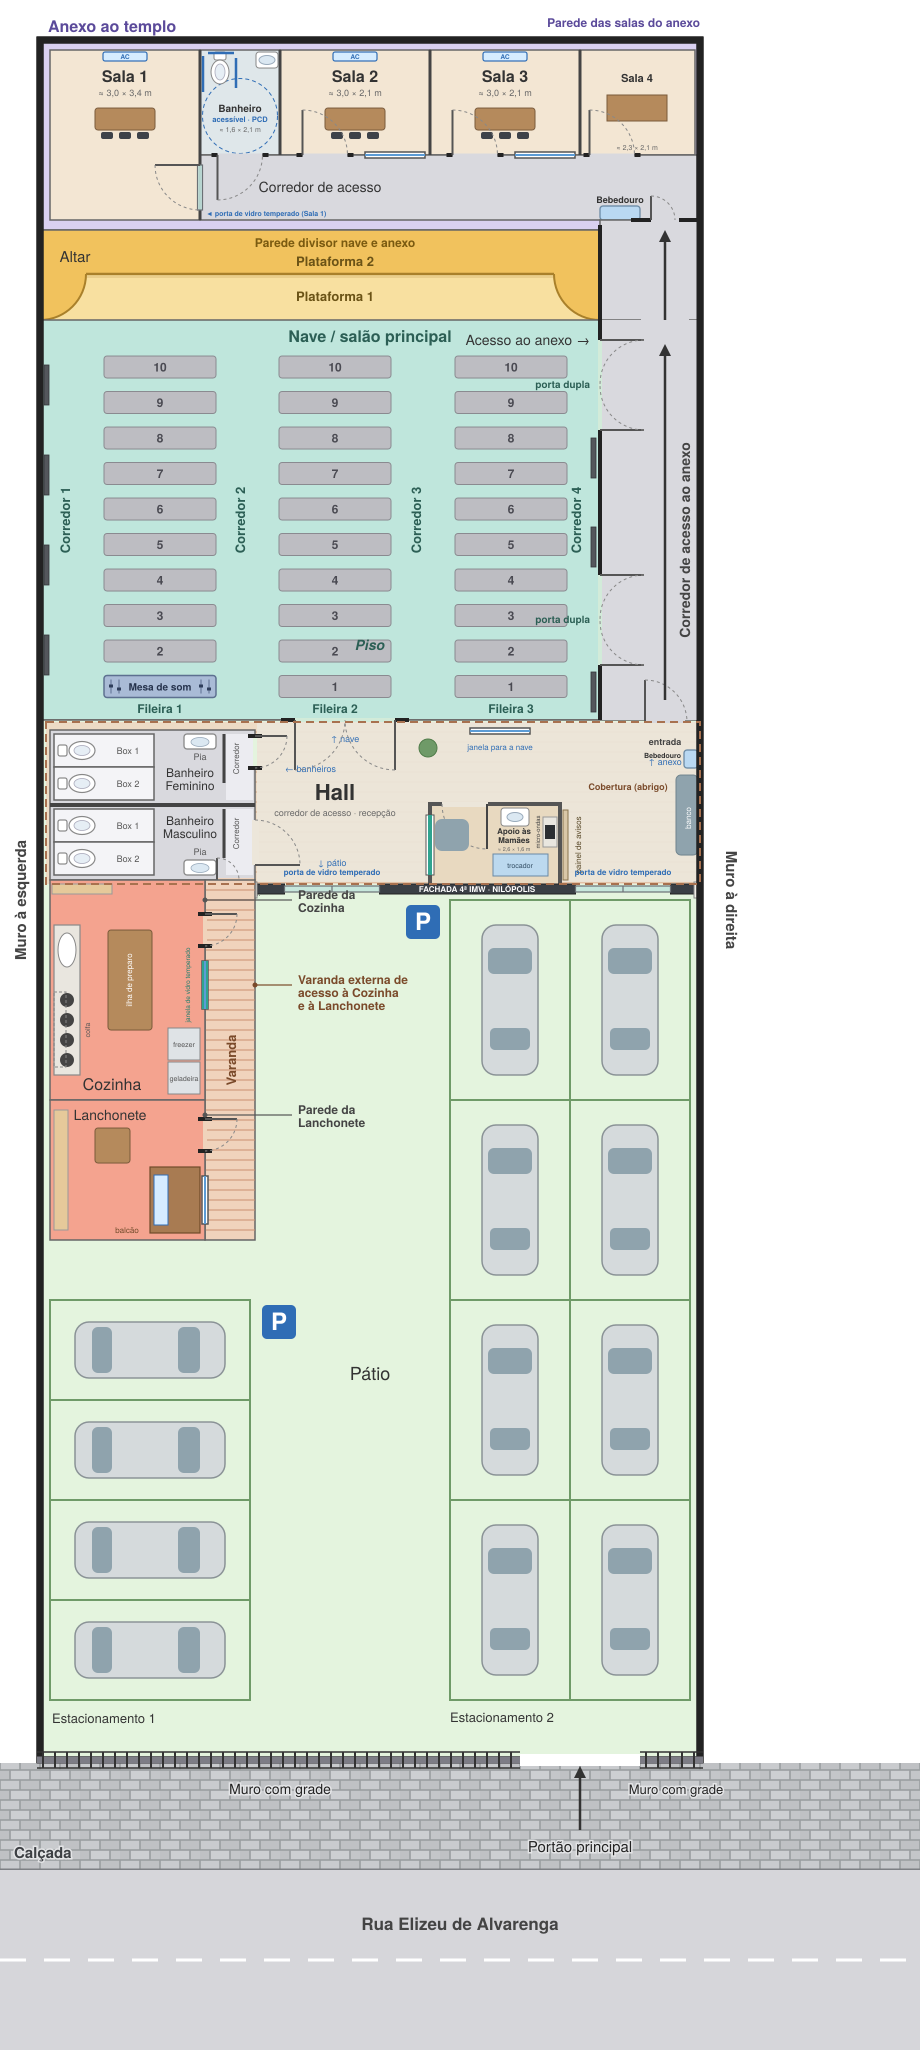
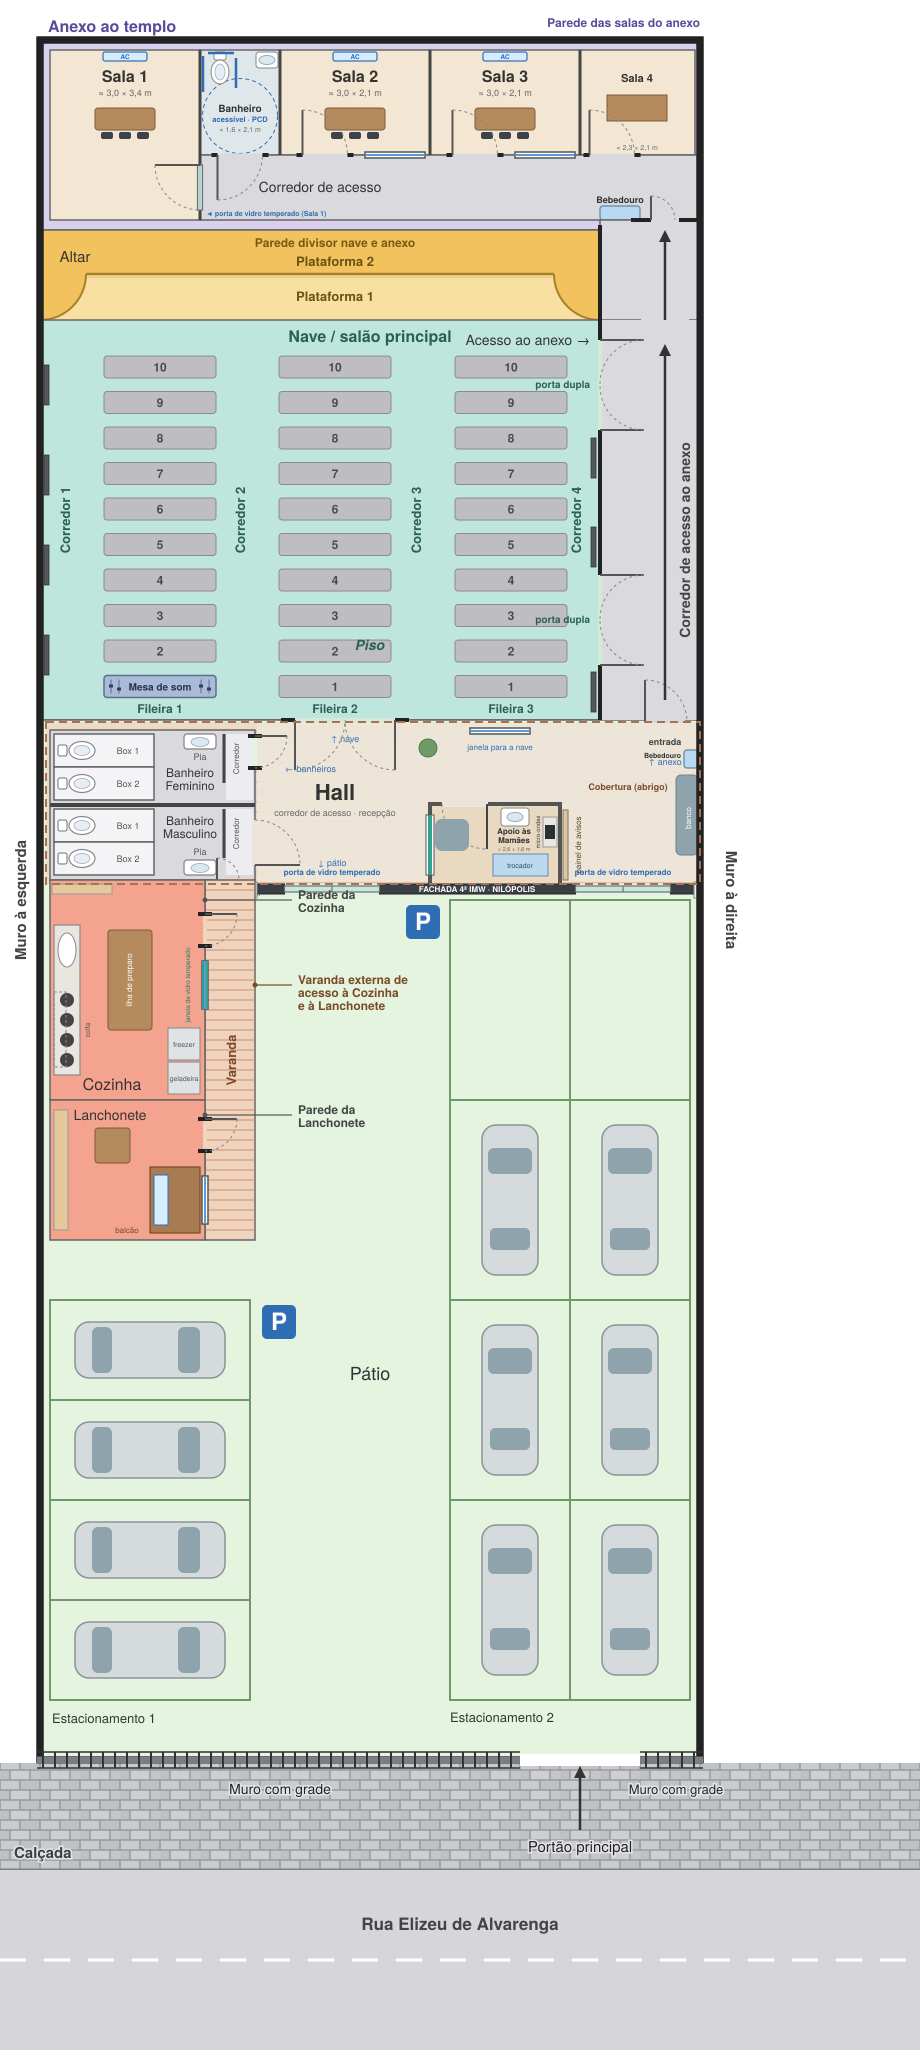
Maquete 3 etapa 39: retirar os 2 carros proximos a porta da fachada
Claude-Session: https://claude.ai/code/session_015gh4tS64wXyJ2ghbw66cFX

Changed region(s): [[0.6391, 0.4329, 0.7304, 0.5256], [0.5174, 0.4329, 0.6087, 0.5256]]

diff --git a/index.html b/index.html
@@ -114,7 +114,7 @@
   <div class="panel" id="projeto3">
     <section>
       <h2>Maquete 3 — Visão 3D</h2>
-      <p class="sub">Parte da Maquete 2 (a mais bem aceita na reunião) com as mudanças propostas. Mudanças até agora: o pátio tem somente 2 ambientes, Cozinha (maior) e Lanchonete (Cantina), ambos em tamanho reduzido; com isso o Estacionamento 1 passou de 2 para 4 vagas; a fachada ganhou uma 2ª porta de vidro temperado, no extremo oposto à existente; o corredor de acesso ao anexo ficou mais largo (2,0 m), com o altar encurtado; a Sala 1 do anexo foi esticada até a parede da nave e ganhou porta de vidro temperado para o corredor; a Sala de Apoio às Mamães foi para o Hall, reduzida e em horizontal (poltrona, trocador, pia e micro-ondas), com janela de vidro temperado (a Cozinha também ganhou janela de vidro temperado), o bebedouro foi para a outra ponta do Hall e o Banheiro Masculino ganhou porta de acesso pelo Hall, e a antiga vaga no anexo virou a Sala 4. Dica: use as vistas <b>Cozinha e Lanchonete</b>, <b>Pátio</b> e, no menu 👁, <b>Pátio (ambientes)</b>.</p>
+      <p class="sub">Parte da Maquete 2 (a mais bem aceita na reunião) com as mudanças propostas. Mudanças até agora: o pátio tem somente 2 ambientes, Cozinha (maior) e Lanchonete (Cantina), ambos em tamanho reduzido; com isso o Estacionamento 1 passou de 2 para 4 vagas; a fachada ganhou uma 2ª porta de vidro temperado, no extremo oposto à existente; o corredor de acesso ao anexo ficou mais largo (2,0 m), com o altar encurtado; a Sala 1 do anexo foi esticada até a parede da nave e ganhou porta de vidro temperado para o corredor; a Sala de Apoio às Mamães foi para o Hall, reduzida e em horizontal (poltrona, trocador, pia e micro-ondas), com janela de vidro temperado (a Cozinha também ganhou janela de vidro temperado), o bebedouro foi para a outra ponta do Hall e o Banheiro Masculino ganhou porta de acesso pelo Hall e os 2 carros da 1ª fileira do Estacionamento 2 (junto à porta da fachada) foram retirados, e a antiga vaga no anexo virou a Sala 4. Dica: use as vistas <b>Cozinha e Lanchonete</b>, <b>Pátio</b> e, no menu 👁, <b>Pátio (ambientes)</b>.</p>
       <iframe class="frame" data-src="projeto3/maquete.html" title="Visão 3D da Maquete 3" allowfullscreen></iframe>
       <div class="btns"><a class="btn" href="projeto3/maquete.html" target="_blank" rel="noopener">Abrir em tela cheia</a></div>
     </section>

diff --git a/projeto3/maquete.html b/projeto3/maquete.html
@@ -913,7 +913,7 @@
   // Estacionamento 2: 8 vagas verticais (4 fileiras x 2), frente para a nave (deslocado para trás: começa em y=900)
   for (var j = 0; j <= 4; j++) line(450, 900 + j * 200, 690, 900 + j * 200);
   [450, 570, 690].forEach(function(xv){ line(xv, 900, xv, 1700); });
-  for (var rr = 0; rr < 4; rr++) for (var cc = 0; cc < 2; cc++) car(450 + cc * 120 + 60, 900 + rr * 200 + 100, Math.PI / 2);
+  for (var rr = 1; rr < 4; rr++) for (var cc = 0; cc < 2; cc++) car(450 + cc * 120 + 60, 900 + rr * 200 + 100, Math.PI / 2);   // MAQUETE 3: os 2 carros da 1ª fileira (junto à porta da fachada) foram retirados; as vagas ficam livres
   pSign(423, 922);
 
   // ---------- Rua com 2 carros estacionados ----------
